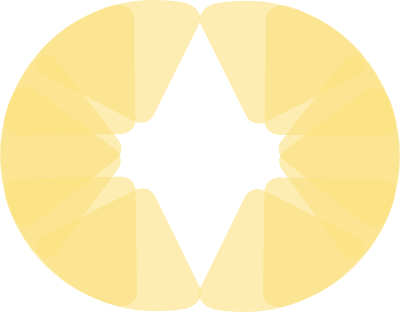
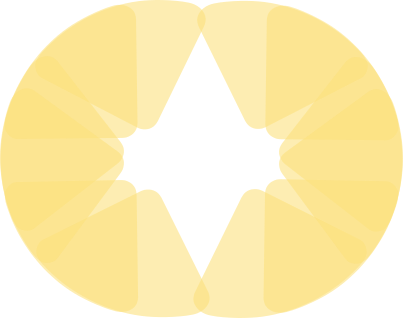
Troca a imagem do sensor

diff --git a/src/examples/autonomous_car/Simulator.java b/src/examples/autonomous_car/Simulator.java
@@ -122,11 +122,11 @@ public class Simulator extends JFrame{
                // Draw sensor
                BufferedImage bi_sensor = null;
                try {
-                   bi_sensor = ImageIO.read(new File("./res/img/sensor-all-sides2.png"));
+                   bi_sensor = ImageIO.read(new File("./res/img/sensor-all-sides.png"));
                } catch (IOException e) {
                    e.printStackTrace();
                }
-               g.drawImage(bi_sensor, (int) (1-(4.0*pixelsPerMeter)), (int) (height/2-((0.7+2.2-((1.4+2.2)*car.getY()))*pixelsPerMeter)-(4.0*pixelsPerMeter)), 400, 312, null);
+               g.drawImage(bi_sensor, (int) (1-(4.0*pixelsPerMeter)), (int) (height/2-((0.7+2.2-((1.4+2.2)*car.getY()))*pixelsPerMeter)-(4.0*pixelsPerMeter)), 403, 318, null);
 
                // Draw obstacles
                BufferedImage bi_stone = null;
